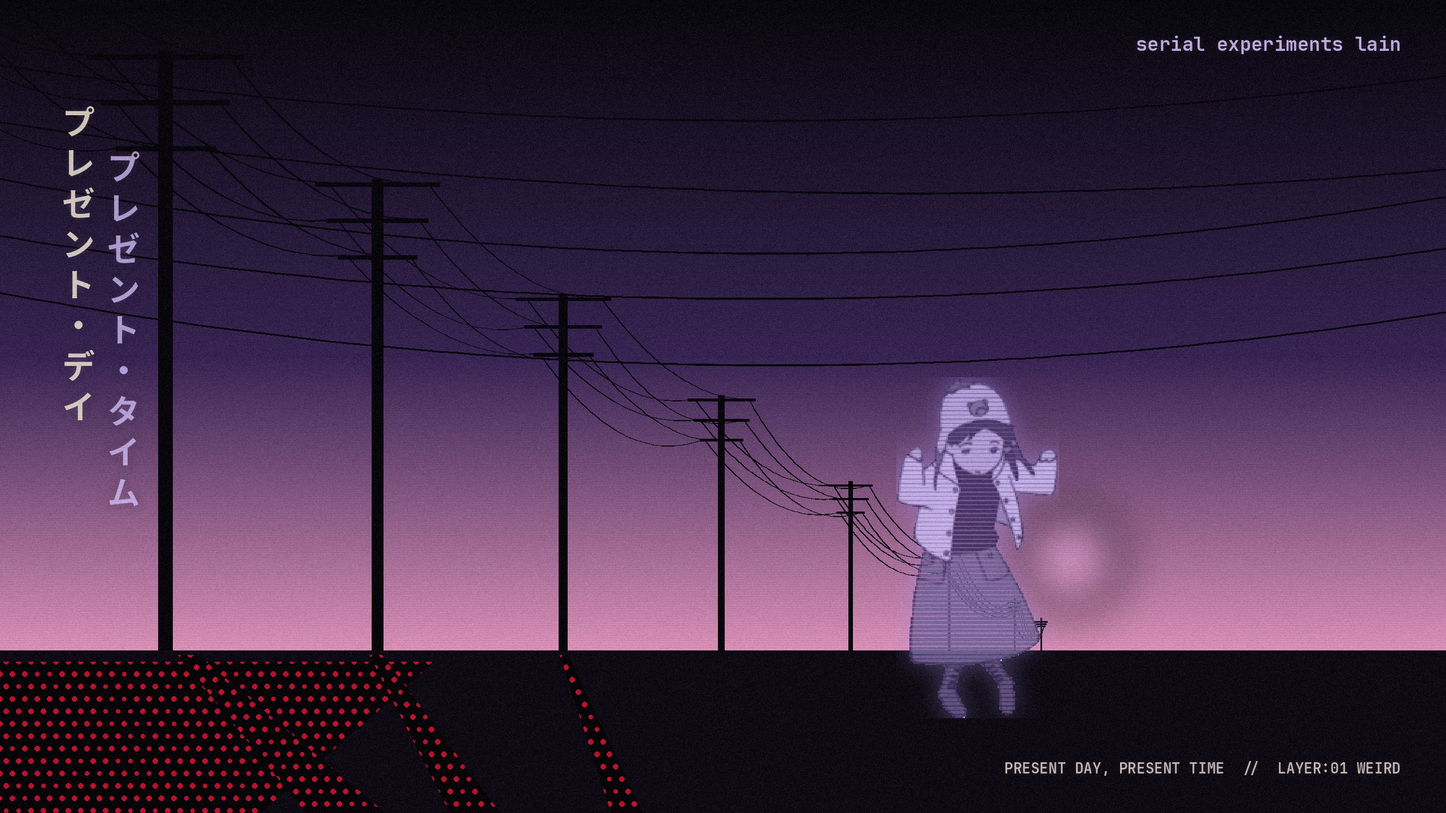
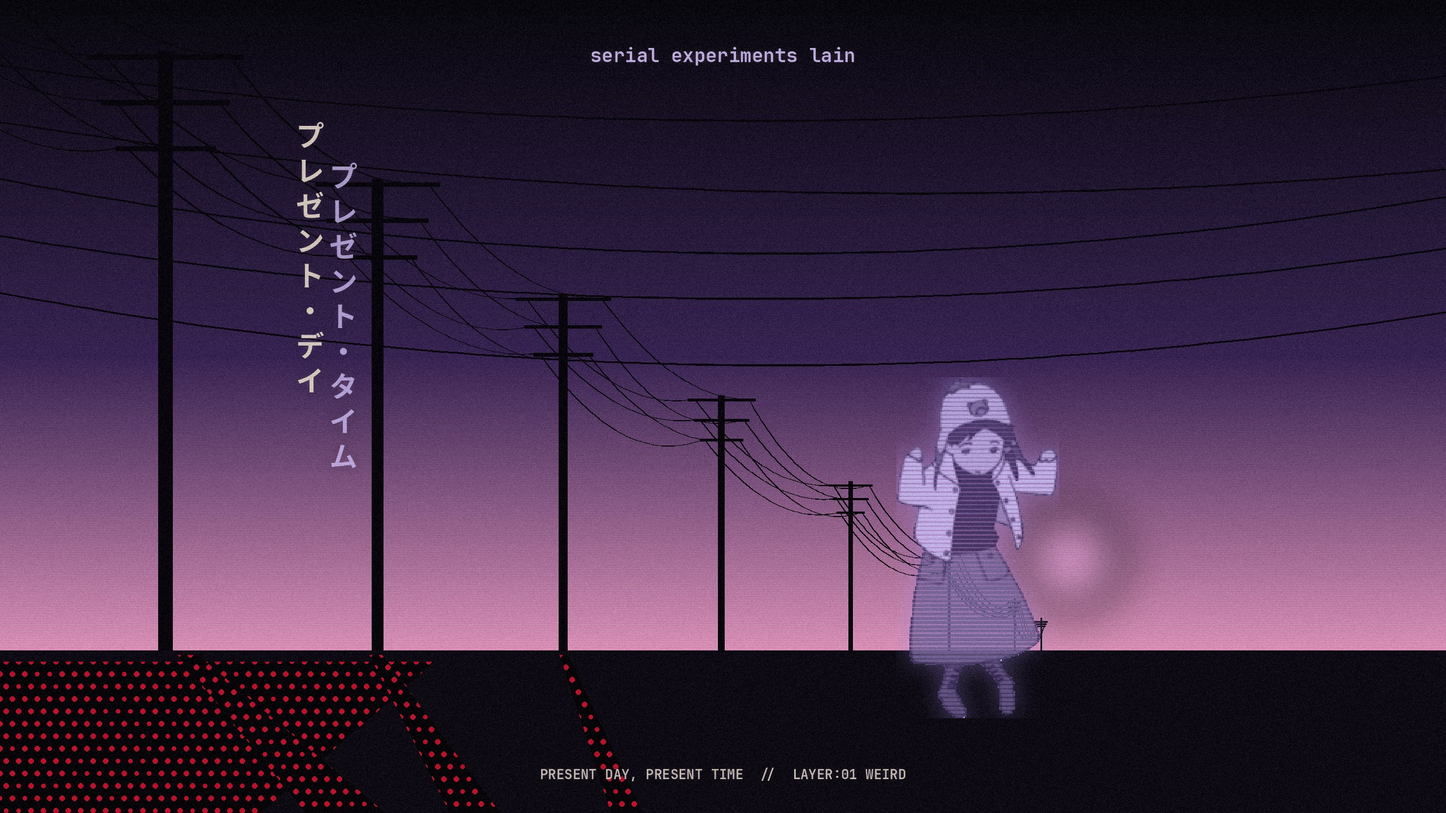
Lain wallpaper: captions where the desktop widgets do not cover them

diff --git a/tools/make-lain-art.py b/tools/make-lain-art.py
@@ -173,15 +173,15 @@ def wires_wallpaper(w=2560, h=1440):
     # Lain, a hologram standing under the wires
     lain = hologram_lain(int(h * 0.42))
     img.alpha_composite(lain, (int(w * 0.62), ground + 120 - lain.height))
-    # captions: "present day, present time" down the left edge, the title small in the corner
-    cj = font(CJK, 58)
+    # captions in the middle of the sky, where the desktop widgets (left and right columns) do not cover them:
+    # "present day, present time" down between the first poles, the title at the top centre
+    cj = font(CJK, 50)
     for i, ch in enumerate("プレゼント・デイ"):
-        text_glow(img, (110, 170 + i * 72), ch, cj, FG + (235,), LAV + (160,), blur=8)
+        text_glow(img, (int(w * 0.205), int(h * 0.14) + i * 62), ch, cj, FG + (235,), LAV + (160,), blur=8)
     for i, ch in enumerate("プレゼント・タイム"):
-        text_glow(img, (190, 250 + i * 72), ch, cj, LAV_B + (200,), PINK + (120,), blur=8)
-    mono = font(MONO, 26)
-    text_glow(img, (w - 80, h - 70), "PRESENT DAY, PRESENT TIME  //  LAYER:01 WEIRD", mono, FG + (220,), LAV + (140,), anchor="rs")
-    text_glow(img, (w - 80, 90), "serial experiments lain", font(MONO, 34), LAV_B + (230,), PINK + (150,), anchor="rs")
+        text_glow(img, (int(w * 0.228), int(h * 0.19) + i * 62), ch, cj, LAV_B + (200,), PINK + (120,), blur=8)
+    text_glow(img, (w / 2, 110), "serial experiments lain", font(MONO, 34), LAV_B + (230,), PINK + (150,), anchor="ms")
+    text_glow(img, (w / 2, h - 60), "PRESENT DAY, PRESENT TIME  //  LAYER:01 WEIRD", font(MONO, 24), FG + (220,), LAV + (140,), anchor="ms")
     return grain_and_scanlines(img.convert("RGB"), rnd, amount=7, lines=0.12)
 
 
